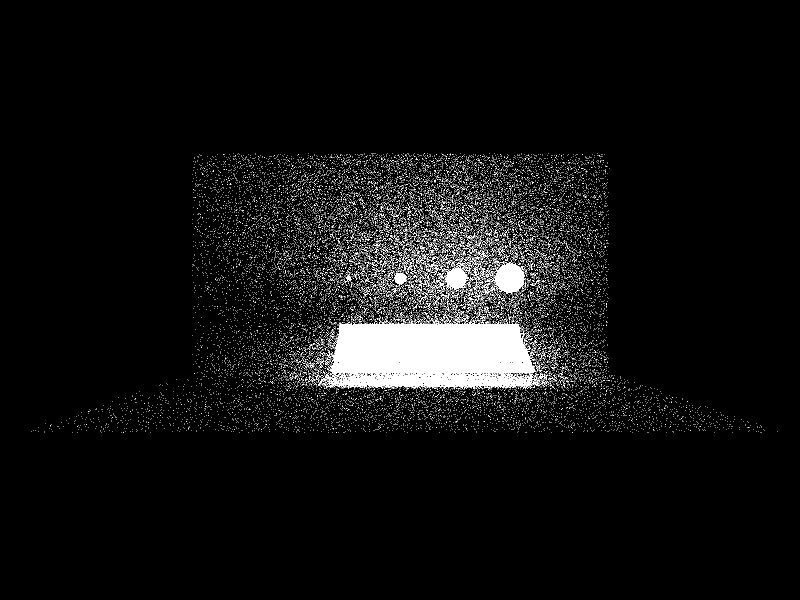
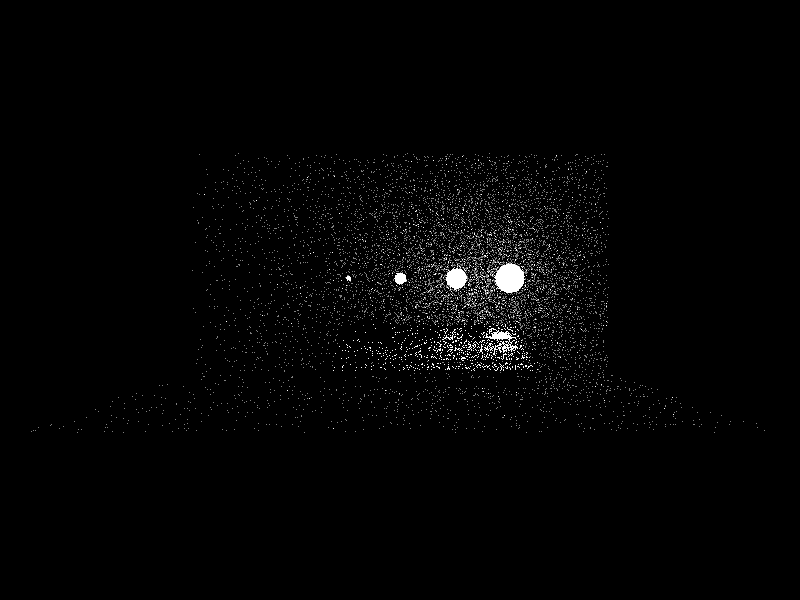
默认材质：全黑，全反射，折射率1，高光指数1

Changed region(s): [[0.25, 0.24, 0.8125, 0.72]]

diff --git a/CVMCTracer/CVMCTracer/Framework/ObjReader.hpp b/CVMCTracer/CVMCTracer/Framework/ObjReader.hpp
@@ -19,7 +19,7 @@ namespace PW {
 
         struct ObjMaterial
         {
-            ObjMaterial(const std::string &n) :name(n), Ka(0.2, 0.2, 0.2), Kd(0.8, 0.8, 0.8), Ks(0, 0, 0), Ns(1), Tr(0), Ni(1) {};
+            ObjMaterial(const std::string &n) :name(n), Ka(0.0, 0.0, 0.0), Kd(0.0, 0.0, 0.0), Ks(0, 0, 0), Ns(1), Tr(0), Ni(1) {};
             std::string name;
             Math::Vector3d Ka;
             Math::Vector3d Kd;
